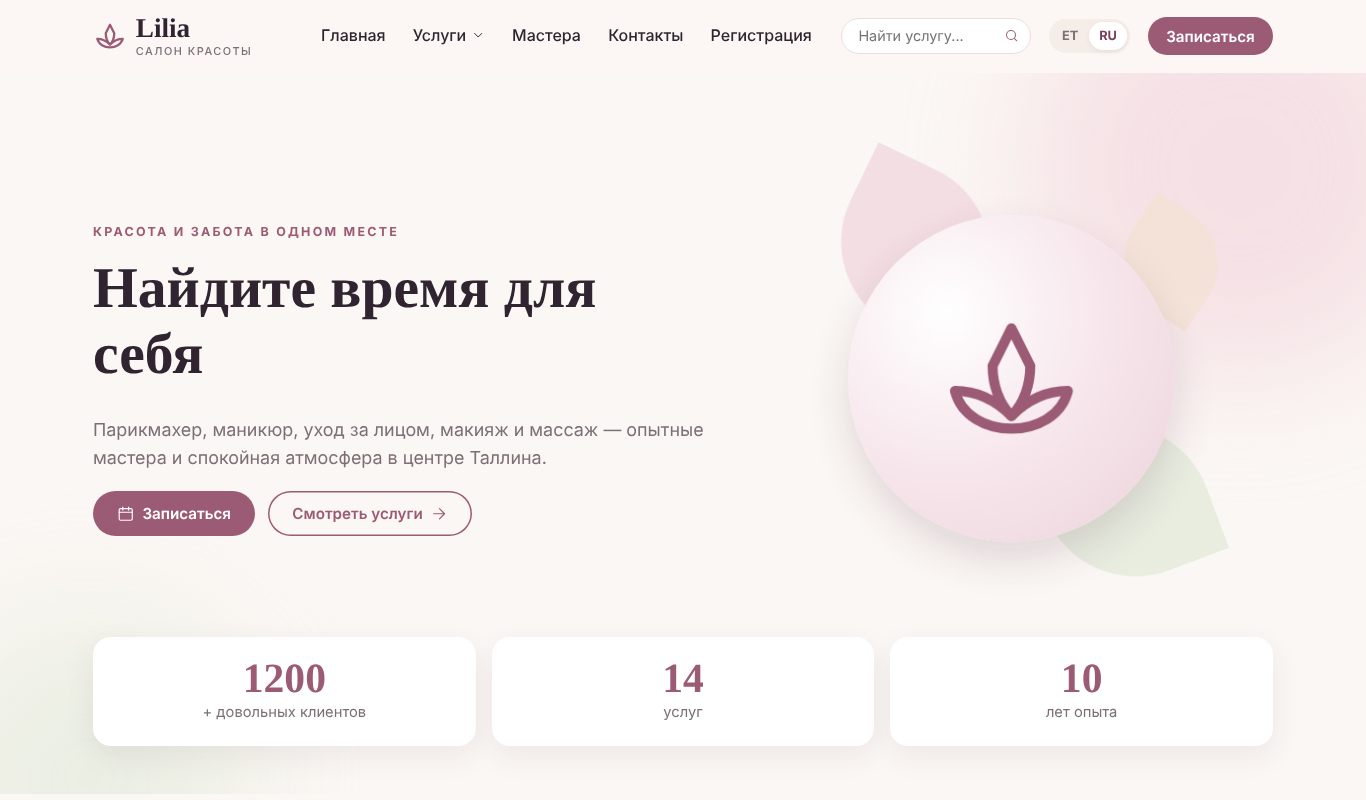
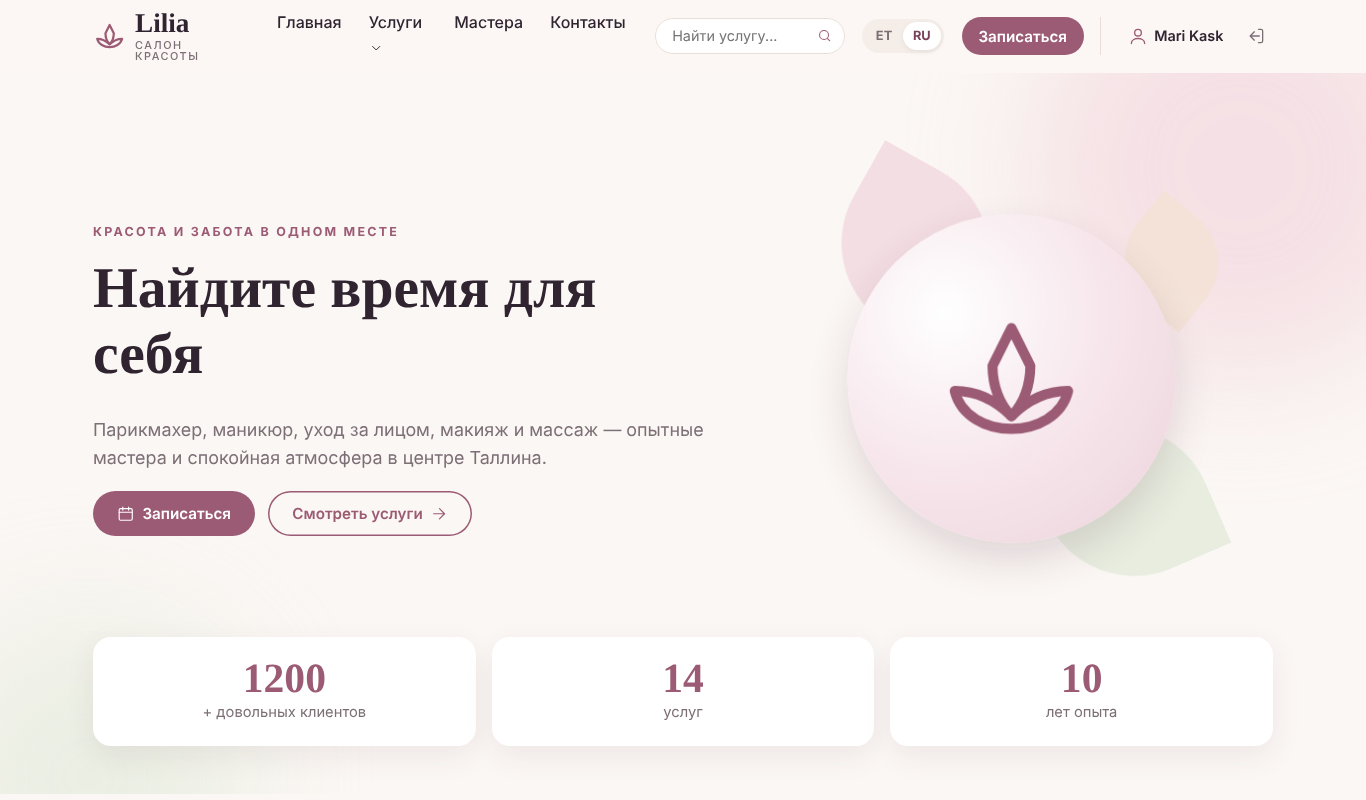
Dokumentatsioon: kliendi konto README-s, uued ekraanipildid

Changed region(s): [[0.2152, 0.0, 0.9531, 0.0938], [0.0615, 0.0, 0.1537, 0.0938]]

diff --git a/README.md b/README.md
@@ -13,8 +13,15 @@ Projekt on tehtud PHP-ülesande raames eelmise ülesande (NewsPortal) malli põh
 - Teenuse leht: kirjeldus, hind, kestus, arvustused ja hinnangud (1–5)
 - Online-broneering: teenus → meister → kuupäev → vaba kellaaeg (AJAX)
   - kontrollitakse tööaega (E–R 9–19, L 10–16, P suletud), möödunud aegu ja topeltbroneeringuid
-- Meistrite leht, kontaktileht, otsing (mõlemas keeles), kasutaja registreerimine
+- Meistrite leht, kontaktileht, otsing (mõlemas keeles)
 - Keelevahetus ET / RU (liidese tekstid ja andmebaasi sisu)
+
+**Kliendi konto**
+- Registreerimine (pärast seda ollakse kohe sisse logitud), sisse- ja väljalogimine — nupud päises paremal
+- 5 vale parooli 15 minuti jooksul → selle e-postiga sisselogimine lukustub 15 minutiks (ka halduspaneelis)
+- Broneerida saab ainult kontoga; broneering salvestatakse kontole
+- **Minu broneeringud**: eelseisvad ja möödunud ajad, tühistamine kuni 2 tundi enne algust
+- Arvustusi saab jätta ainult kontoga, üks arvustus teenuse kohta
 
 **Halduspaneel** (`/salon_admin`)
 - Töölaud statistika ja eelseisvate broneeringutega
@@ -22,13 +29,15 @@ Projekt on tehtud PHP-ülesande raames eelmise ülesande (NewsPortal) malli põh
 - Kategooriate haldus
 - Broneeringute nimekiri, filtrid ja staatuse muutmine (uus / kinnitatud / tühistatud)
 
-Testkonto: **admin@lilia.ee** / **admin123**
+Testkontod:
+- administraator **admin@lilia.ee** / **admin123**
+- klient **mari@example.com** / **mari123** (tal on üks eelseisev ja üks möödunud broneering)
 
 ## Ülesande nõuded
 
 | Nõue | Lahendus |
 |---|---|
-| Andmebaasi tabelid vastavad teemale | `categories`, `services`, `masters`, `bookings`, `reviews`, `users` — vt `database.sql` |
+| Andmebaasi tabelid vastavad teemale | `categories`, `services`, `masters`, `bookings`, `reviews`, `users`, `login_attempts` — vt `database.sql` |
 | Kohanduvus | Mobile-first CSS, murdepunktid 640 px ja 900 px, mobiilimenüü |
 | Versioonihaldus | Git, iga etapp eraldi commit'ina |
 | Dünaamilised elemendid | CSS-animatsioonid, kerimisel ilmumine, loendurid, filter, AJAX-ajad, ripple, „Üles“ nupp (`public/js/main.js`) |
@@ -46,6 +55,9 @@ docker compose up --build
 
 Andmebaas luuakse automaatselt failist `database.sql`.
 
+> Kui andmebaas on juba varem loodud, tuleb see pärast `database.sql` muutmist uuesti luua:
+> `docker compose down -v` ja siis `docker compose up --build`.
+
 ### XAMPP / OpenServer
 1. Kopeeri projekt kausta `htdocs` (Apache `mod_rewrite` peab olema sees).
 2. Impordi `database.sql` phpMyAdminis.
@@ -59,7 +71,7 @@ Andmebaas luuakse automaatselt failist `database.sql`.
 index.php              # avaliku saidi sisendpunkt
 route/routing.php      # marsruudid
 controller/            # Controller
-model/                 # Category, Service, Master, Review, Booking, Register
+model/                 # Category, Service, Master, Review, Booking, Register, Auth
 view/                  # vaated (layout, lehed, ViewService, ViewReview, Icons)
 lang/                  # tõlked (et, ru)
 inc/                   # Database (PDO), Lang
@@ -77,7 +89,8 @@ categories 1──* services 1──* reviews
      1              1
      *              *
   masters 1──* bookings
-users (administraatorid ja kliendid)
+users 1──* bookings, users 1──* reviews   (user_id, kustutamisel NULL)
+login_attempts (ebaõnnestunud sisselogimised lukustuse jaoks)
 ```
 
 ## Turvalisus
@@ -85,6 +98,10 @@ users (administraatorid ja kliendid)
 - Kogu väljund läbi `htmlspecialchars` (XSS-kaitse)
 - Paroolid `password_hash` / `password_verify`
 - Halduspaneel ainult rollile `admin`
+- Sisselogimise lukustus: 5 ebaõnnestunud katset 15 min jooksul → 15 min lukus (`model/Auth.php`, tabel `login_attempts`)
+- Sessiooni ID uuendatakse sisselogimisel, küpsis `HttpOnly` + `SameSite=Lax`
+- CSRF-token kõigil POST-vormidel (broneering, arvustus, tühistamine, väljalogimine)
+- Klient näeb ja tühistab ainult oma broneeringuid (kontroll `user_id` järgi)
 - Üleslaetud failide tüübi ja suuruse kontroll, `uploads/` kaustas PHP käivitamine keelatud
 
 ## Autorid
